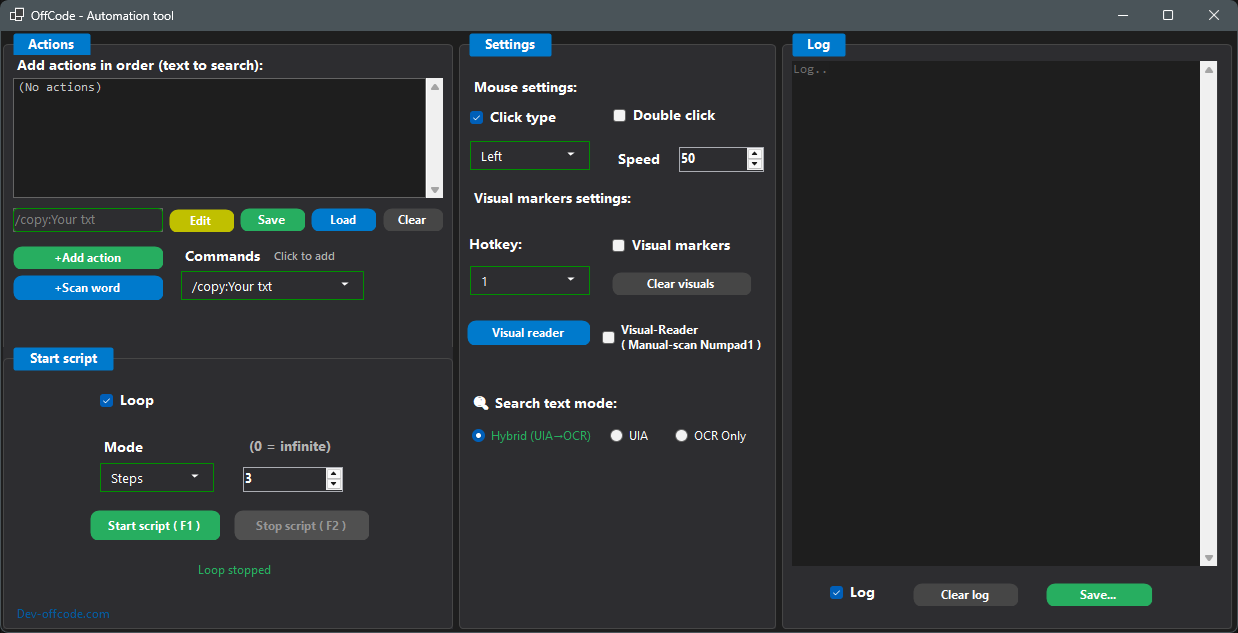
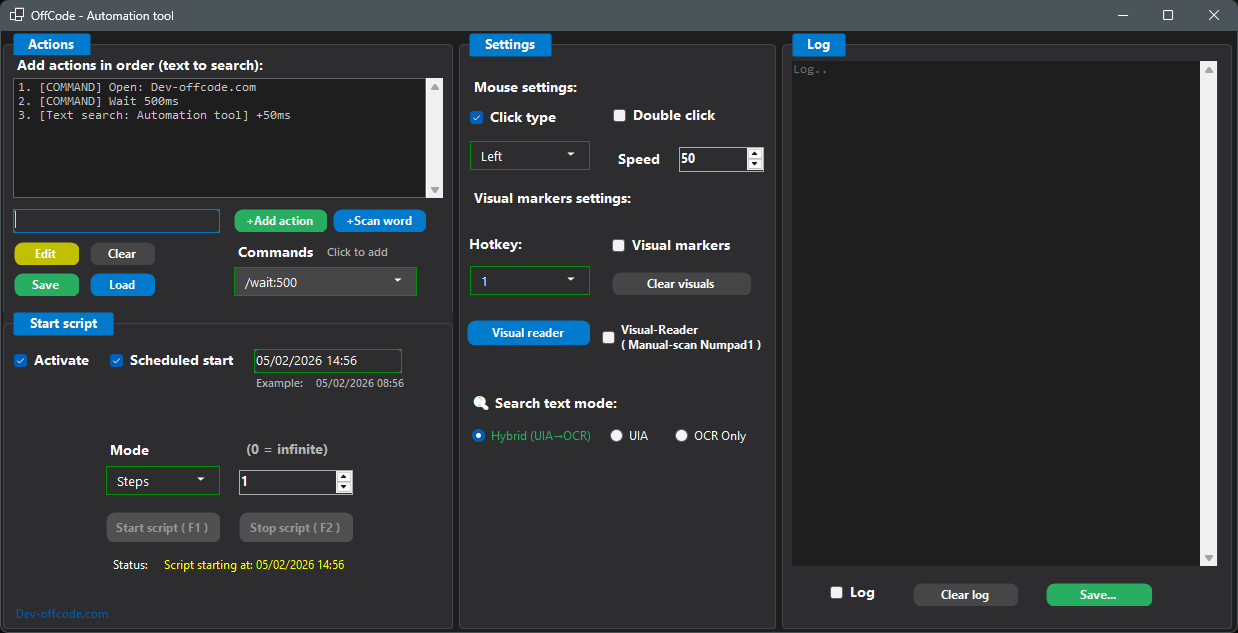
Add files via upload

diff --git a/AutomationTool.html b/AutomationTool.html
@@ -78,6 +78,7 @@
         "image": "https://www.dev-offcode.com/OffCodeAutomation.png",
         "screenshot": [
             "https://www.dev-offcode.com/OffCodeAutomation.png",
+            "https://www.dev-offcode.com/ScannerTriggerP.png",
             "https://www.dev-offcode.com/VisualReader.png",
             "https://www.dev-offcode.com/VisualReader2.png",
             "https://www.dev-offcode.com/VisualMarkers.png"
@@ -408,6 +409,15 @@
                         data-title="OffCode Automation Tool"
                         data-desc="Powerful desktop automation interface with visual scripting">
                         <img src="OffCodeAutomation.png" alt="OffCode Automation Tool - Main Interface">
+                        <div class="image-overlay">
+                            <div class="zoom-icon">🔍</div>
+                        </div>
+                    </div>
+
+                    <div class="image-card featured" data-image="ScannerTriggerP.png"
+                        data-title="OffCode Automation Tool"
+                        data-desc="Wait until text appears/disappears using scanner triggers">
+                        <img src="ScannerTriggerP.png" alt="OffCode Automation Tool - Scanner Trigger">
                         <div class="image-overlay">
                             <div class="zoom-icon">🔍</div>
                         </div>
